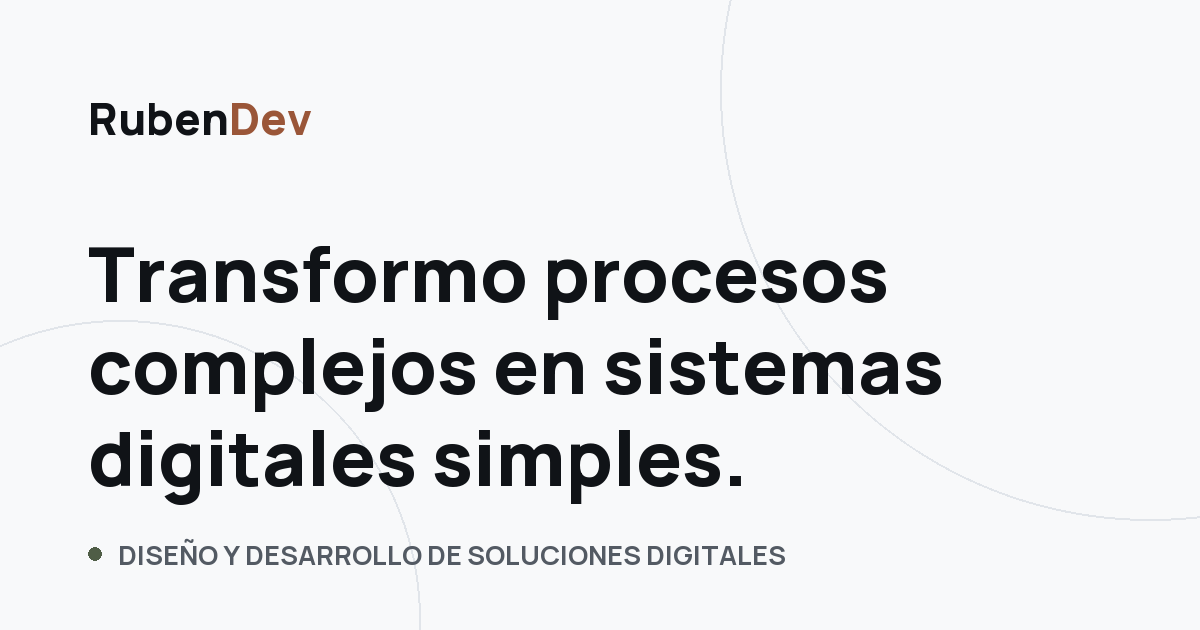
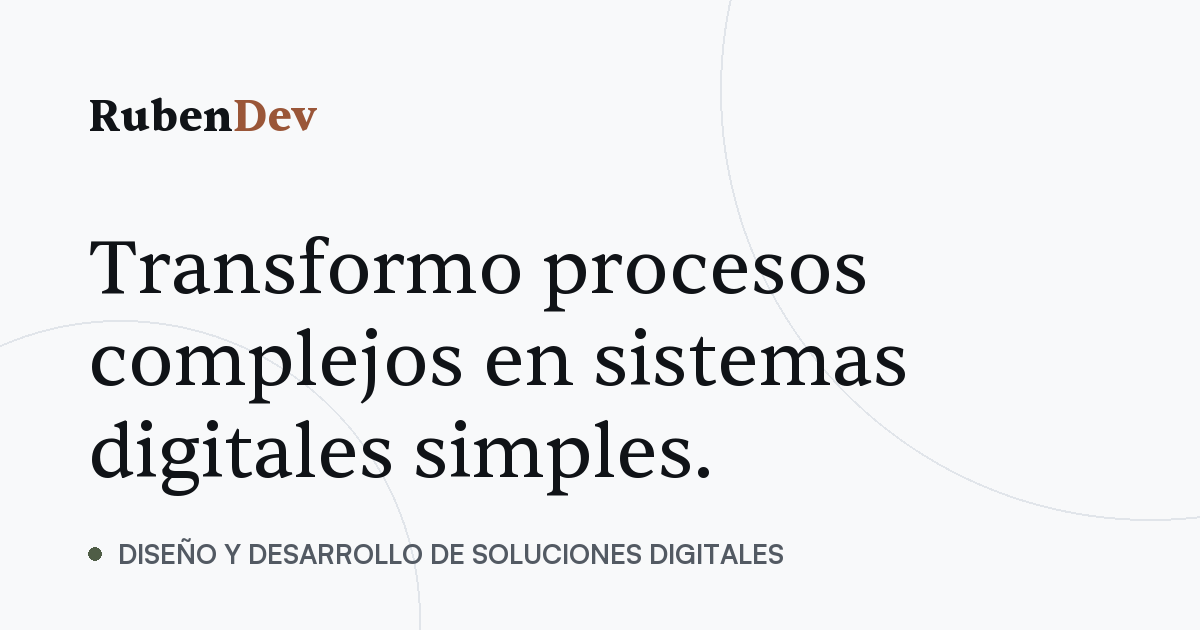
finalll

diff --git a/scripts/og-image.py b/scripts/og-image.py
@@ -2,8 +2,10 @@
 """
 Genera la imagen que se ve al compartir el enlace (Open Graph, 1200x630).
 
-Usa la tipografía y los colores del sitio para que la tarjeta se lea como una
-pieza más de RubenDev y no como una miniatura genérica.
+Usa las tipografías y los colores del sitio para que la tarjeta se lea como una
+pieza más de RubenDev y no como una miniatura genérica: la serifa (Sentient) en
+la marca y en la promesa, la sans (Satoshi) en las versalitas del pie, que es
+exactamente el reparto que hace `src/index.css`.
 
 La regla que costó una tarde aprender: **en una burbuja de WhatsApp la tarjeta
 mide unos 320 px**, un 27% de esta imagen. Todo lo que aquí baje de 44 px de
@@ -17,7 +19,9 @@ import os
 import sys
 
 ROOT = os.path.dirname(os.path.dirname(os.path.abspath(__file__)))
-FUENTE = os.path.join(ROOT, "public", "fonts", "manrope-latin.woff2")
+FUENTES = os.path.join(ROOT, "public", "fonts")
+SERIFA = os.path.join(FUENTES, "sentient-variable.woff2")
+SANS = os.path.join(FUENTES, "satoshi-variable.woff2")
 OUT = os.path.join(ROOT, "public", "og.png")
 
 # Se le puede pasar otra ruta de salida para comparar variantes con
@@ -38,9 +42,16 @@ ACCENT_2 = (79, 93, 70)     # --color-accent-2 (salvia)
 LINE = (225, 229, 234)      # --color-line
 
 
-def manrope(tam, peso):
-    """Manrope es variable (200–800): se instancia el peso que haga falta."""
-    f = ImageFont.truetype(FUENTE, tam)
+def serifa(tam, peso):
+    """Sentient, la de los titulares. Variable 200–700."""
+    f = ImageFont.truetype(SERIFA, tam)
+    f.set_variation_by_axes([peso])
+    return f
+
+
+def sans(tam, peso):
+    """Satoshi, la de todo lo demás. Variable 300–900."""
+    f = ImageFont.truetype(SANS, tam)
     f.set_variation_by_axes([peso])
     return f
 
@@ -56,14 +67,14 @@ y = MARGEN
 
 # 1) La marca. Dos pesos en la misma palabra, como en la barra del sitio.
 marca_a, marca_b = "Ruben", "Dev"
-f_marca = manrope(44, 800)
+f_marca = serifa(44, 700)
 d.text((MARGEN, y), marca_a, font=f_marca, fill=INK)
 ancho_a = d.textlength(marca_a, font=f_marca)
 d.text((MARGEN + ancho_a, y), marca_b, font=f_marca, fill=ACCENT)
 
 # 2) La promesa. Es lo único que tiene que leerse sí o sí.
 y += 132
-f_titular = manrope(76, 800)
+f_titular = serifa(76, 400)
 for linea in ("Transformo procesos", "complejos en sistemas", "digitales simples."):
     d.text((MARGEN, y), linea, font=f_titular, fill=INK)
     y += 92
@@ -71,7 +82,7 @@ for linea in ("Transformo procesos", "complejos en sistemas", "digitales simples
 # 3) El oficio, en versalitas anchas. Precedido del punto de terracota.
 y += 40
 d.ellipse((MARGEN, y + 11, MARGEN + 13, y + 24), fill=ACCENT_2)
-f_pie = manrope(27, 700)
+f_pie = sans(27, 700)
 d.text(
     (MARGEN + 30, y),
     "DISEÑO Y DESARROLLO DE SOLUCIONES DIGITALES",

diff --git a/CLAUDE.md b/CLAUDE.md
@@ -8,7 +8,8 @@ cambia en vivo.
 
 - React 19 + Vite 8
 - Tailwind CSS v4 (plugin `@tailwindcss/vite`, **sin** `tailwind.config.js`)
-- Manrope autoalojada en `public/fonts` (variable, 200–800)
+- Dos tipografías autoalojadas en `public/fonts`, las dos variables:
+  Sentient (serifa, titulares) y Satoshi (sans, todo lo demás)
 - Deploy: Vercel (`vercel.json` ya configurado)
 
 ## Comandos
@@ -155,6 +156,13 @@ rutas: es el mismo HTML con otras variables. Claro, oscuro, azul y verde.
   donde el contraste blanco/negro ya los distingue.
   **El texto corrido y los subtítulos NO se tiñen nunca**: es lo que evita que
   parezca una web pintada de azul.
+- **`--color-nav-line` es el subrayado del menú** —el riel del estado activo y
+  el trazo del hover, que son la misma línea— y va del color de la marca: el
+  mismo acento que pinta el «Dev» del logotipo. Así el «estás aquí» es también
+  una señal de marca y cambia con el estilo como todo lo demás. **En oscuro es
+  la excepción**: ahí va en tinta, porque sobre negro la línea blanca es la que
+  se ve. Se aplica sólo en la barra; en el pie `.nav-link` sigue con
+  `currentColor`, porque allí la línea acompaña al texto y no marca sección.
 - El CTA también es distinto por estilo: tinta en claro, invertido en oscuro y
   del color de la marca en azul y verde. Junto con los arcos teñidos con el
   acento, completa el reconocimiento de un vistazo.
@@ -166,10 +174,35 @@ rutas: es el mismo HTML con otras variables. Claro, oscuro, azul y verde.
 
 ## Diseño
 
-- **Tipografía: Manrope**, autoalojada (`public/fonts`, variable 200–800, un
-  archivo por subconjunto: 24,8 kB latin + 15,1 kB latin-ext). **Nunca por
-  `<link>` a un tercero** — esa petición ya bloqueó el pintado una vez. El golpe
-  del titular lo dan el peso 800 y el tracking cerrado (`-0.038em`) de `.display`.
+- **Dos tipografías, y cada una tiene su trabajo.** **Sentient** (serifa) en los
+  titulares y en la marca; **Satoshi** (sans) en todo lo que se lee de verdad:
+  menú, texto corrido, botones, etiquetas y títulos de tarjeta. Es el
+  emparejamiento editorial clásico y es lo que da el aire premium; una serifa a
+  cuerpo pequeño sólo ensucia, y una sans sola no distingue la marca de
+  cualquier otra web.
+  - Las dos son de Fontshare (licencia gratuita para uso comercial), las dos
+    autoalojadas y variables, un archivo cada una con el juego latino completo:
+    `satoshi-variable.woff2` 42,6 kB (300–900) y `sentient-variable.woff2`
+    49,4 kB (200–700). **Nunca por `<link>` a un tercero** — esa petición ya
+    bloqueó el pintado una vez. Las dos se precargan en `index.html`: las dos
+    salen en la primera pantalla.
+  - El reparto vive en dos tokens y en tres clases: `--font-display` es la
+    serifa y `--font-sans` la sans; `.display` (titulares) y `.wordmark` (la
+    marca) van a la primera, `.display-light` y todo lo demás a la segunda.
+    **`.display-light` apunta a `--font-sans` a propósito**: si apuntara al
+    token de titulares, los títulos de tarjeta se llenarían de remates.
+  - **El golpe del titular NO lo da el peso.** `.display` va a 400 con
+    `-0.02em`: en una serifa el carácter está en los remates y el contraste del
+    trazo, y a peso 700 se emborrona. Los `-0.038em` que hubo eran de una sans
+    geométrica, donde cerrar el espacio compacta el bloque; aquí los remates ya
+    ocupan ese hueco y al apretarlos las letras se tocan.
+  - **Y el tracking tampoco es libre**: con `-0.01em` —lo natural para una
+    serifa— el titular del hero se iba a cinco líneas y empujaba la fila de
+    soluciones fuera de la primera pantalla en una ventana de 800px de alto.
+    Medido en 1440x800, 1440x900, 375 y 360. La interlinea sube a 1.06 por lo
+    mismo: a 1.02 las descendentes rozan las mayúsculas de la línea siguiente.
+  - La marca lleva clase propia (`.wordmark`, peso 700) y no `.display`: un
+    logotipo a 18px necesita cuerpo, y a 400 se quedaba en nada.
 - Microetiquetas (`.eyebrow`, `.tag`): versalitas con tracking amplio y peso 700.
   Nada de monoespaciada en la interfaz.
 - **Composición asimétrica**: rejilla de 12 donde los bloques no comparten eje.
@@ -223,8 +256,17 @@ rutas: es el mismo HTML con otras variables. Claro, oscuro, azul y verde.
   Velan una captura —leyenda del bento, contador de capturas, fondo del visor— y
   tienen que ser oscuros en los cuatro. Con `ink`/`page` se invertían y en oscuro
   aparecía un bloque blanco encima de la imagen.
-- **Interacción, toda en CSS.** `.nav-link` dibuja un subrayado con `scaleX` (el
-  estado activo lo deja puesto). Los bloques editoriales llevan `.block` +
+- **Interacción, casi toda en CSS.** `.nav-link` dibuja el subrayado del hover
+  con `scaleX`, nunca animando el ancho. El estado activo de la barra es la
+  excepción: no lo pinta cada enlace, lo pinta **un solo riel compartido**
+  (`.nav-rail`) que se desplaza de una sección a la siguiente, porque encender
+  uno y apagar otro se leía como parpadeo. Su posición la mide `Nav.jsx` con
+  `getBoundingClientRect` —hacen falta los decimales— y la escribe en un
+  `transform`; se remide al cambiar de sección, al cambiar de idioma (las
+  palabras no miden lo mismo) y con un `ResizeObserver`. Mide **1px y no 1.5**:
+  con `transform` va en su propia capa y ahí el navegador no ajusta la altura a
+  la rejilla, así que 1.5 se reparte entre dos filas y la línea sale más blanda
+  que el trazo del hover. Los bloques editoriales llevan `.block` +
   `.block-rule` —cuando el filete ya es un `<span>`— o `.block-top` —cuando lo
   dibuja un `border-t`—, y al pasar el cursor repintan el filete, desplazan
   `.block-title` 4px y encienden `.block-num`. **El color en reposo de
